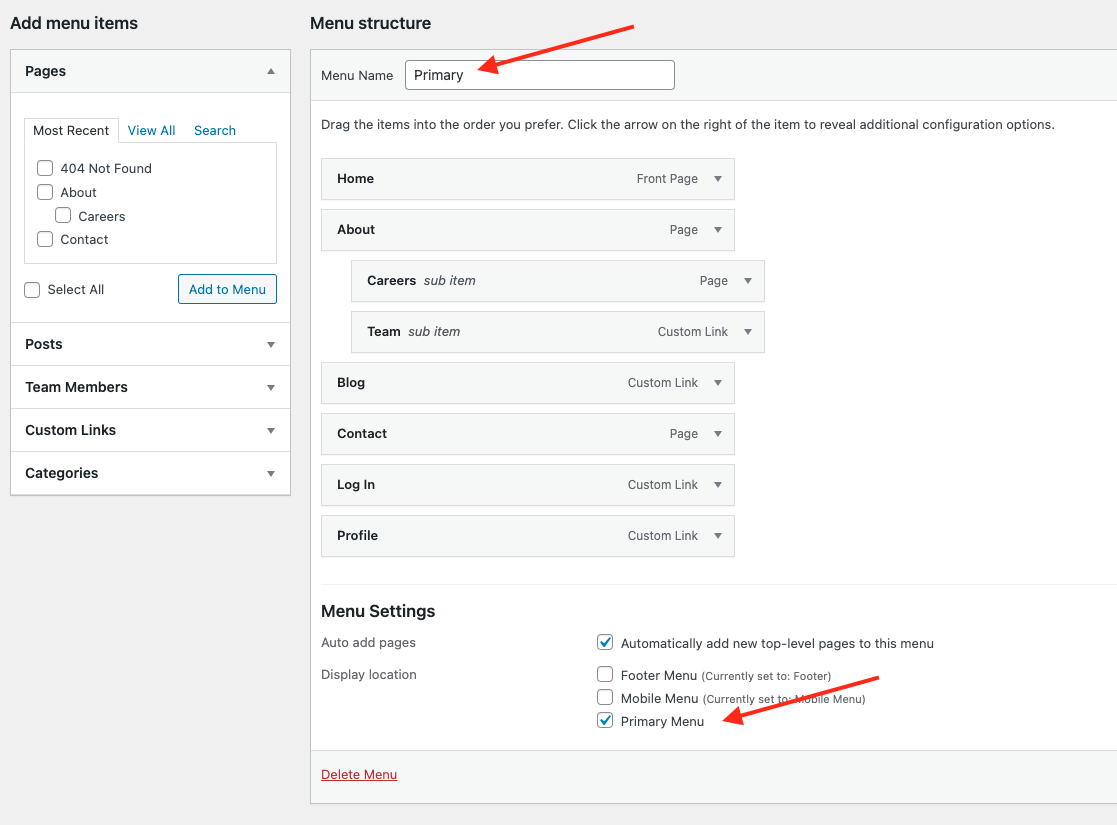
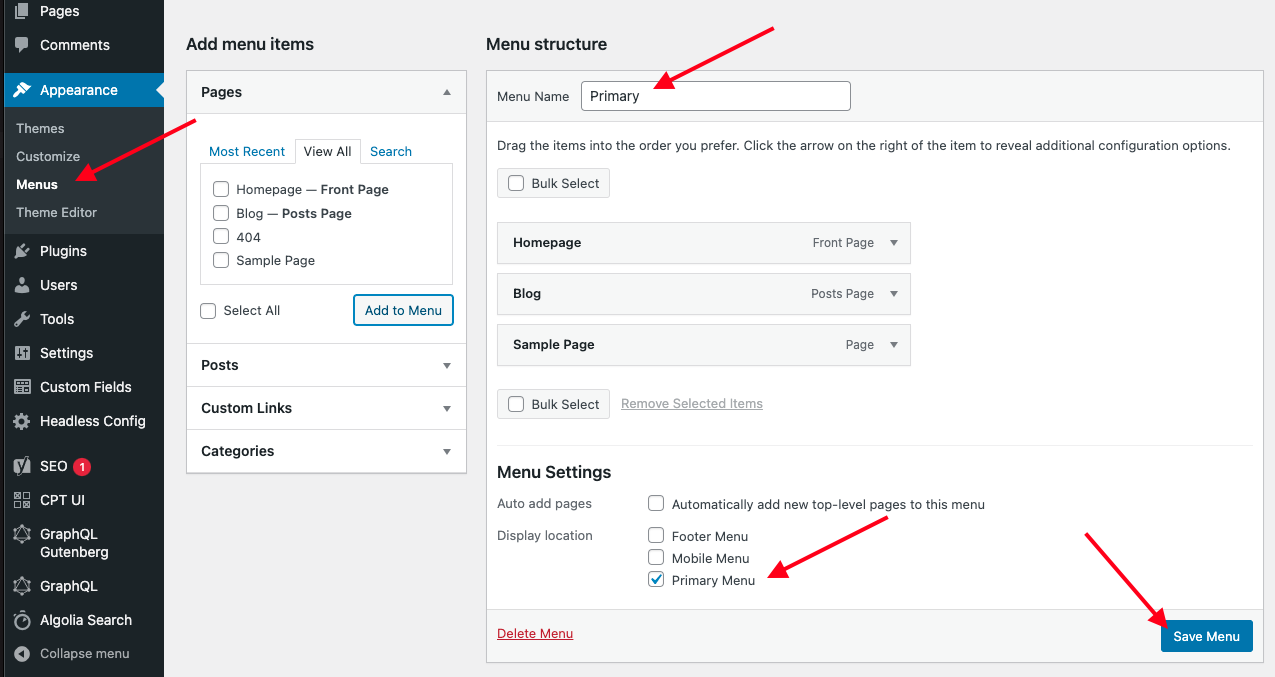
more backend setup doc updates

diff --git a/docs/docs/backend/index.md b/docs/docs/backend/index.md
@@ -64,19 +64,12 @@ wp plugin activate --all
 The follow constants needs to be in `wp-config.php`:
 
 ```php
-// The URL of the Next.js WordPress Starter.
 define( 'HEADLESS_FRONTEND_URL', 'http://localhost:3000/' );
-```
-
-```php
-// Any random string.
 define( 'PREVIEW_SECRET_TOKEN', 'ANY_RANDOM_STRING');
+define( 'GRAPHQL_JWT_AUTH_SECRET_KEY', 'ANY_RANDOM_STRING' );
 ```
 
-```php
-// https://www.wpgraphql.com/extenstion-plugins/wpgraphql-jwt-authentication/
-define( 'GRAPHQL_JWT_AUTH_SECRET_KEY', 'your-secret-token' );
-```
+> To generate a random strings, we recommend using the [WordPress Salt Generator](https://api.wordpress.org/secret-key/1.1/salt/). Just copy and paste any of the generated strings into the constants above.
 
 Learn more about setting up [wp-config.php](/docs/backend/wp-config).
 
@@ -84,9 +77,9 @@ Learn more about setting up [wp-config.php](/docs/backend/wp-config).
 
 ### Step 4: Create Pages
 
-You will need to create three pages:
+In the WordPress Dashboard, navigate to `Pages -> Add New`
 
-`Pages -> Add New`
+Create three blank pages named:
 
 1. Homepage
 2. Blog
@@ -98,15 +91,11 @@ There's nothing else needed for this step.
 
 ### Step 5: Set Page Options
 
-Set static pages:
-
-`Settings -> Reading -> "Your homepage displays"`
+In the WordPress Dashboard, navigate to `Settings -> Reading -> "Your homepage displays"` and set static pages for Homepage and Posts page:
 
 ![screenshot](/img/screenshot-set-page-options.png)
 
-Set the custom 404 page:
-
-`Headless Config -> Options`
+Now navigate to `Headless Config -> Options` and set the custom 404 page:
 
 ![screenshot](/img/screenshot-set-404-page.png)
 
@@ -118,9 +107,15 @@ You should now see your Homepage, Blog, and 404 page like so:
 
 ### Step 6: Set Permalinks
 
-`Settings -> Permalinks -> Custom Structure`
+In the WordPress Dashboard, navigate to `Settings -> Permalinks -> Custom Structure`
 
-The custom structure needs to be: `/blog/%postname%/`
+1. Enter the follow structure:
+
+```text
+/blog/%postname%
+```
+
+2. Save the settings.
 
 ![screenshot](/img/screenshot-set-permalinks.png)
 
@@ -128,9 +123,7 @@ The custom structure needs to be: `/blog/%postname%/`
 
 ### Step 7: Set Menus
 
-You'll need to create at least one menu, `Primary`. Additionally, you can create a Mobile and Footer menu.
-
-`Appearance -> Menus`
+You'll need to create at least one menu, `Primary`. Additionally, you can create a Mobile and Footer menu. In the WordPress Dashboard, navigate to `Appearance -> Menus`
 
 1. Menu Name: `Primary`
 2. Display location: `Primary Menu`
